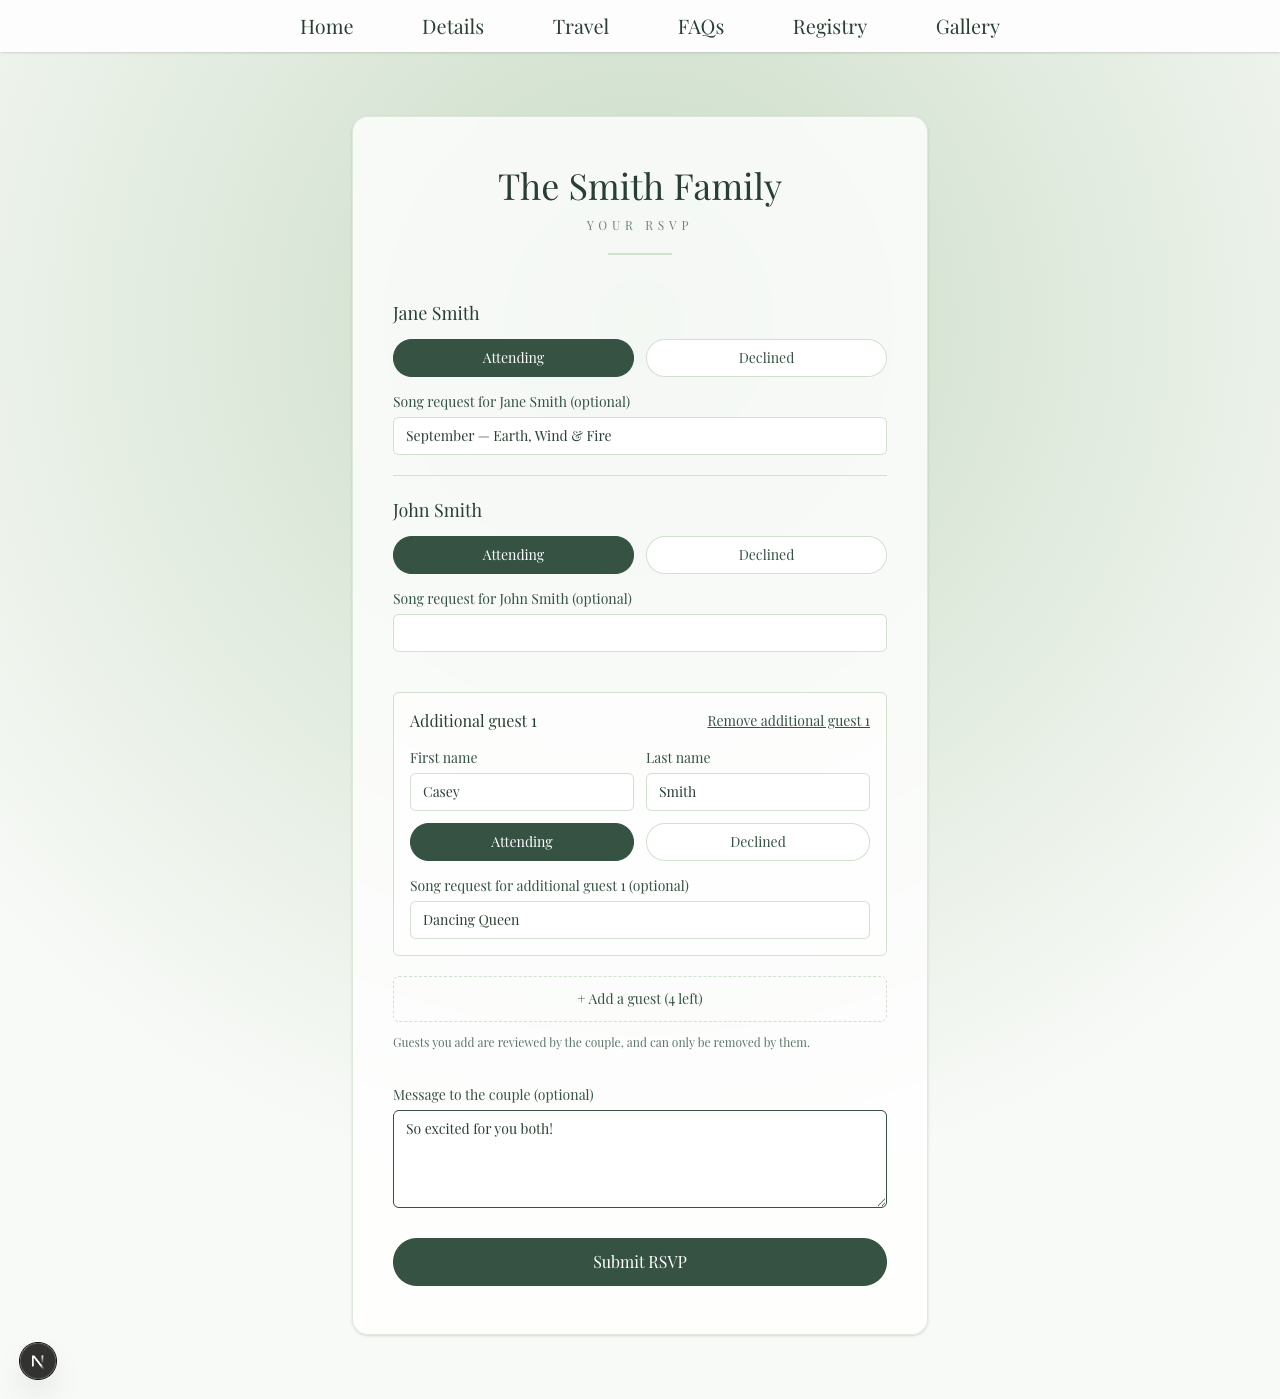
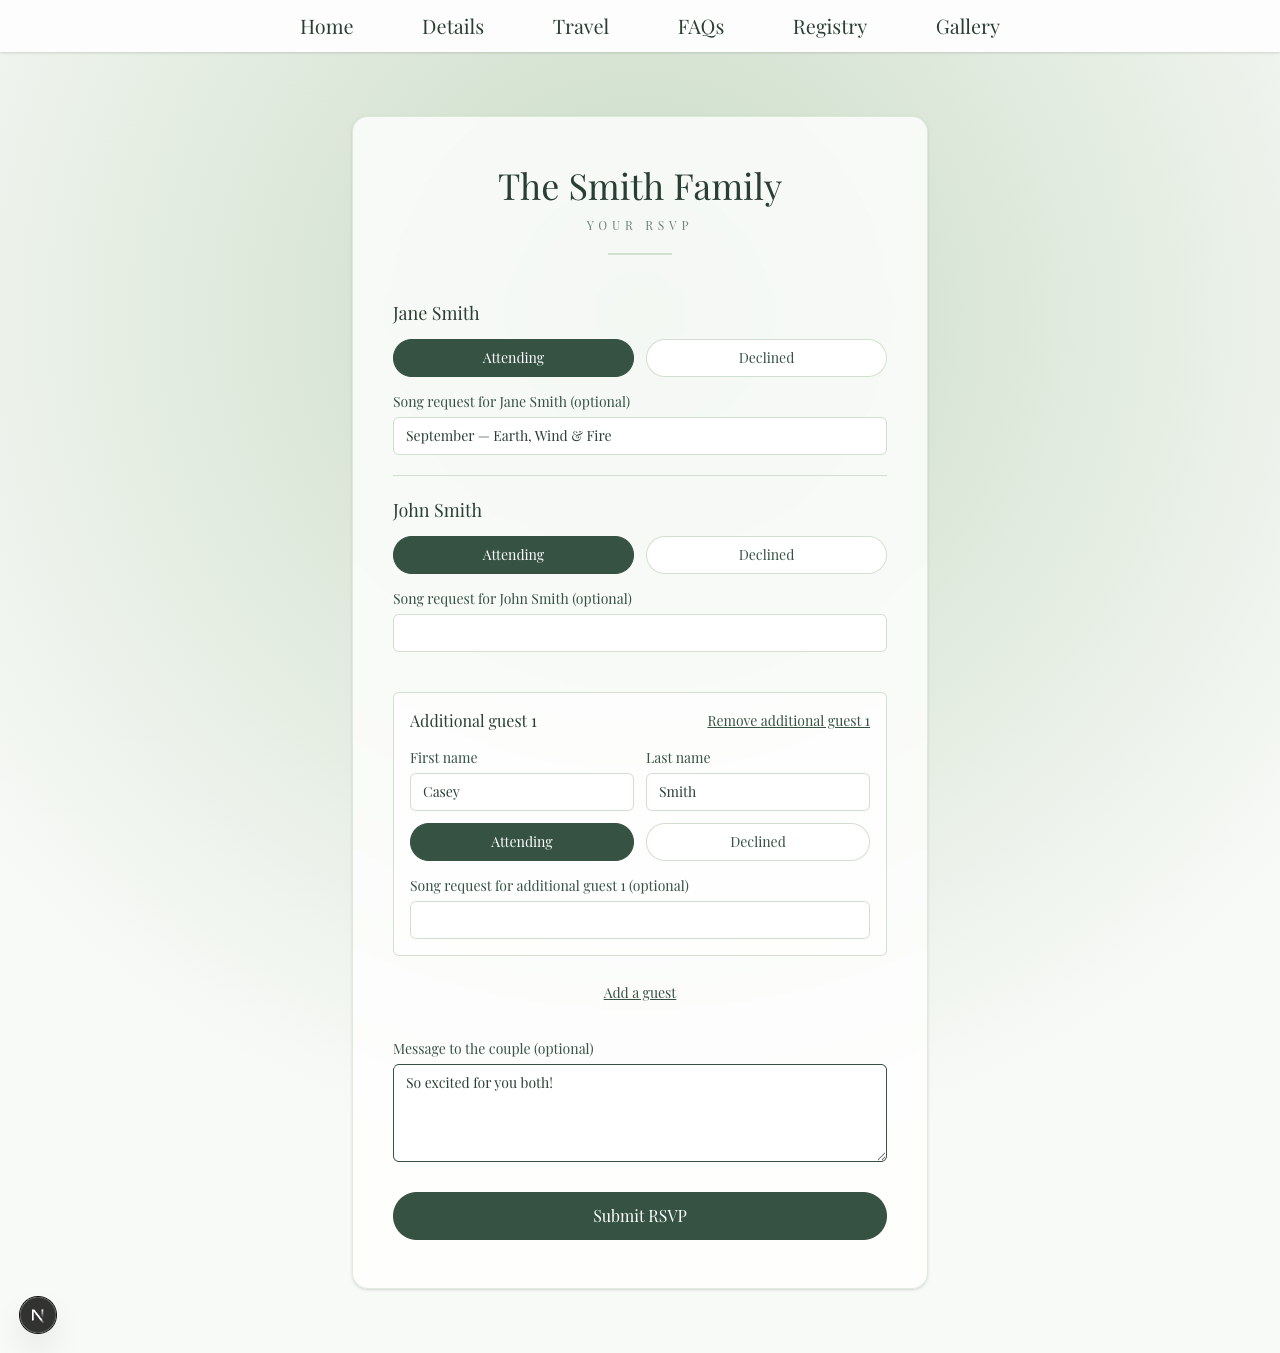
feat(rsvp): de-emphasize adding guests
Adding a guest is an exception, not an allowance. The control was a
full-width dashed button counting down "(4 left)", which advertised a
budget to spend and invited people to fill it.

- Drop the remaining count entirely. The party's cap still hides the
  control once it is reached; guests just never see a tally.
- Reduce the control to a quiet centered text link.
- Remove the "reviewed by the couple" notes from both the editor and the
  confirmation. This is a personal wedding, not a moderation queue --
  the couple can follow up directly if an addition needs a conversation.

Tests keep pinning the cap (control disappears after the cap is reached,
returns when a draft guest is removed) and now assert no count is shown.

diff --git a/src/components/rsvp/PartyForm.test.tsx b/src/components/rsvp/PartyForm.test.tsx
@@ -97,17 +97,24 @@ describe('PartyForm', () => {
     });
   });
 
-  it('counts down the remaining additions and hides the control at the cap', () => {
+  it('hides the add-guest control once the cap is reached', () => {
     renderForm();
     const addButton = () => screen.queryByRole('button', { name: /add a guest/i });
 
-    expect(addButton()).toHaveTextContent('2 left');
+    expect(addButton()).toBeInTheDocument();
 
     fireEvent.click(addButton()!);
-    expect(addButton()).toHaveTextContent('1 left');
+    expect(addButton()).toBeInTheDocument();
 
     fireEvent.click(addButton()!);
     expect(addButton()).not.toBeInTheDocument();
+  });
+
+  it('never advertises how many guests remain to be added', () => {
+    renderForm({ party: party({ addedGuestsRemaining: 4 }) });
+
+    expect(screen.getByRole('button', { name: /add a guest/i })).toHaveTextContent(/^Add a guest$/);
+    expect(screen.queryByText(/\d+ left/i)).not.toBeInTheDocument();
   });
 
   it('never offers to add a guest when no additions remain', () => {
@@ -125,7 +132,7 @@ describe('PartyForm', () => {
     fireEvent.click(screen.getByRole('button', { name: 'Remove additional guest 1' }));
 
     expect(screen.queryByText('Additional guest 1')).not.toBeInTheDocument();
-    expect(screen.getByRole('button', { name: /add a guest/i })).toHaveTextContent('2 left');
+    expect(screen.getByRole('button', { name: /add a guest/i })).toBeInTheDocument();
   });
 
   it('blocks submission until an added guest is complete', () => {
@@ -136,12 +143,6 @@ describe('PartyForm', () => {
     fireEvent.click(screen.getByRole('button', { name: /add a guest/i }));
 
     expect(screen.getByRole('button', { name: /submit rsvp/i })).toBeDisabled();
-  });
-
-  it('warns that added guests are reviewed by the couple', () => {
-    renderForm();
-
-    expect(screen.getByText(/reviewed by the couple/i)).toBeInTheDocument();
   });
 
   it('renders a notice and an error when given them', () => {

diff --git a/src/components/rsvp/RsvpConfirmation.tsx b/src/components/rsvp/RsvpConfirmation.tsx
@@ -1,6 +1,6 @@
 import Link from 'next/link';
 import { StepHeading } from './StepHeading';
-import { GUEST_SOURCE, RSVP_STATUS } from '@/lib/enums';
+import { RSVP_STATUS } from '@/lib/enums';
 import type { PartyDetail, PartyDetailGuest } from '@/lib/rsvp/types';
 
 interface RsvpConfirmationProps {
@@ -40,7 +40,6 @@ const GuestList: React.FC<{ heading: string; guests: PartyDetailGuest[] }> = ({
 export const RsvpConfirmation: React.FC<RsvpConfirmationProps> = ({ party, onEdit }) => {
   const attending = party.guests.filter((guest) => guest.rsvpStatus === RSVP_STATUS.attending);
   const declined = party.guests.filter((guest) => guest.rsvpStatus === RSVP_STATUS.declined);
-  const hasAddedGuests = party.guests.some((guest) => guest.source === GUEST_SOURCE.guestAdded);
 
   return (
     <section className='w-full'>
@@ -58,12 +57,6 @@ export const RsvpConfirmation: React.FC<RsvpConfirmationProps> = ({ party, onEdi
           <p className={SECTION_LABEL_CLASS}>Your message</p>
           <p className='mt-2 text-sage-800'>{party.message}</p>
         </div>
-      )}
-
-      {hasAddedGuests && (
-        <p className='mt-6 text-sm text-sage-700'>
-          Guests you added are reviewed by the couple before they are final.
-        </p>
       )}
 
       <button

diff --git a/src/components/rsvp/PartyForm.tsx b/src/components/rsvp/PartyForm.tsx
@@ -89,20 +89,21 @@ export const PartyForm: React.FC<PartyFormProps> = ({
         />
       ))}
 
+      {/*
+        Deliberately understated, and never showing a remaining count: adding a
+        guest is an exception, not an allowance to spend. The control disappears
+        once the party's cap is reached.
+      */}
       {remainingAdditions > 0 && (
-        <>
+        <div className='mt-6 text-center'>
           <button
             type='button'
             onClick={addNewGuest}
-            className='mt-5 w-full rounded-md border border-dashed border-sage-200 px-4 py-3 text-sm text-sage-700 transition-colors hover:border-sage-700'
+            className='text-sm text-sage-700 underline transition-colors hover:text-sage-800'
           >
-            + Add a guest ({remainingAdditions} left)
+            Add a guest
           </button>
-
-          <p className='mt-3 text-xs text-sage-700/80'>
-            Guests you add are reviewed by the couple, and can only be removed by them.
-          </p>
-        </>
+        </div>
       )}
 
       <div className='mt-8'>

diff --git a/src/components/rsvp/RsvpConfirmation.test.tsx b/src/components/rsvp/RsvpConfirmation.test.tsx
@@ -31,7 +31,7 @@ describe('RsvpConfirmation', () => {
     expect(screen.getByText('Can not wait!')).toBeInTheDocument();
   });
 
-  it('flags added guests as awaiting review', () => {
+  it('lists an added guest without singling them out for review', () => {
     render(
       <RsvpConfirmation
         party={{
@@ -42,13 +42,8 @@ describe('RsvpConfirmation', () => {
       />,
     );
 
-    expect(screen.getByText(/reviewed by the couple/i)).toBeInTheDocument();
-  });
-
-  it('says nothing about review when the party added nobody', () => {
-    render(<RsvpConfirmation party={PARTY} onEdit={vi.fn()} />);
-
-    expect(screen.queryByText(/reviewed by the couple/i)).not.toBeInTheDocument();
+    expect(screen.getByText('John Smith')).toBeInTheDocument();
+    expect(screen.queryByText(/review/i)).not.toBeInTheDocument();
   });
 
   it('reopens the editor on request', () => {
